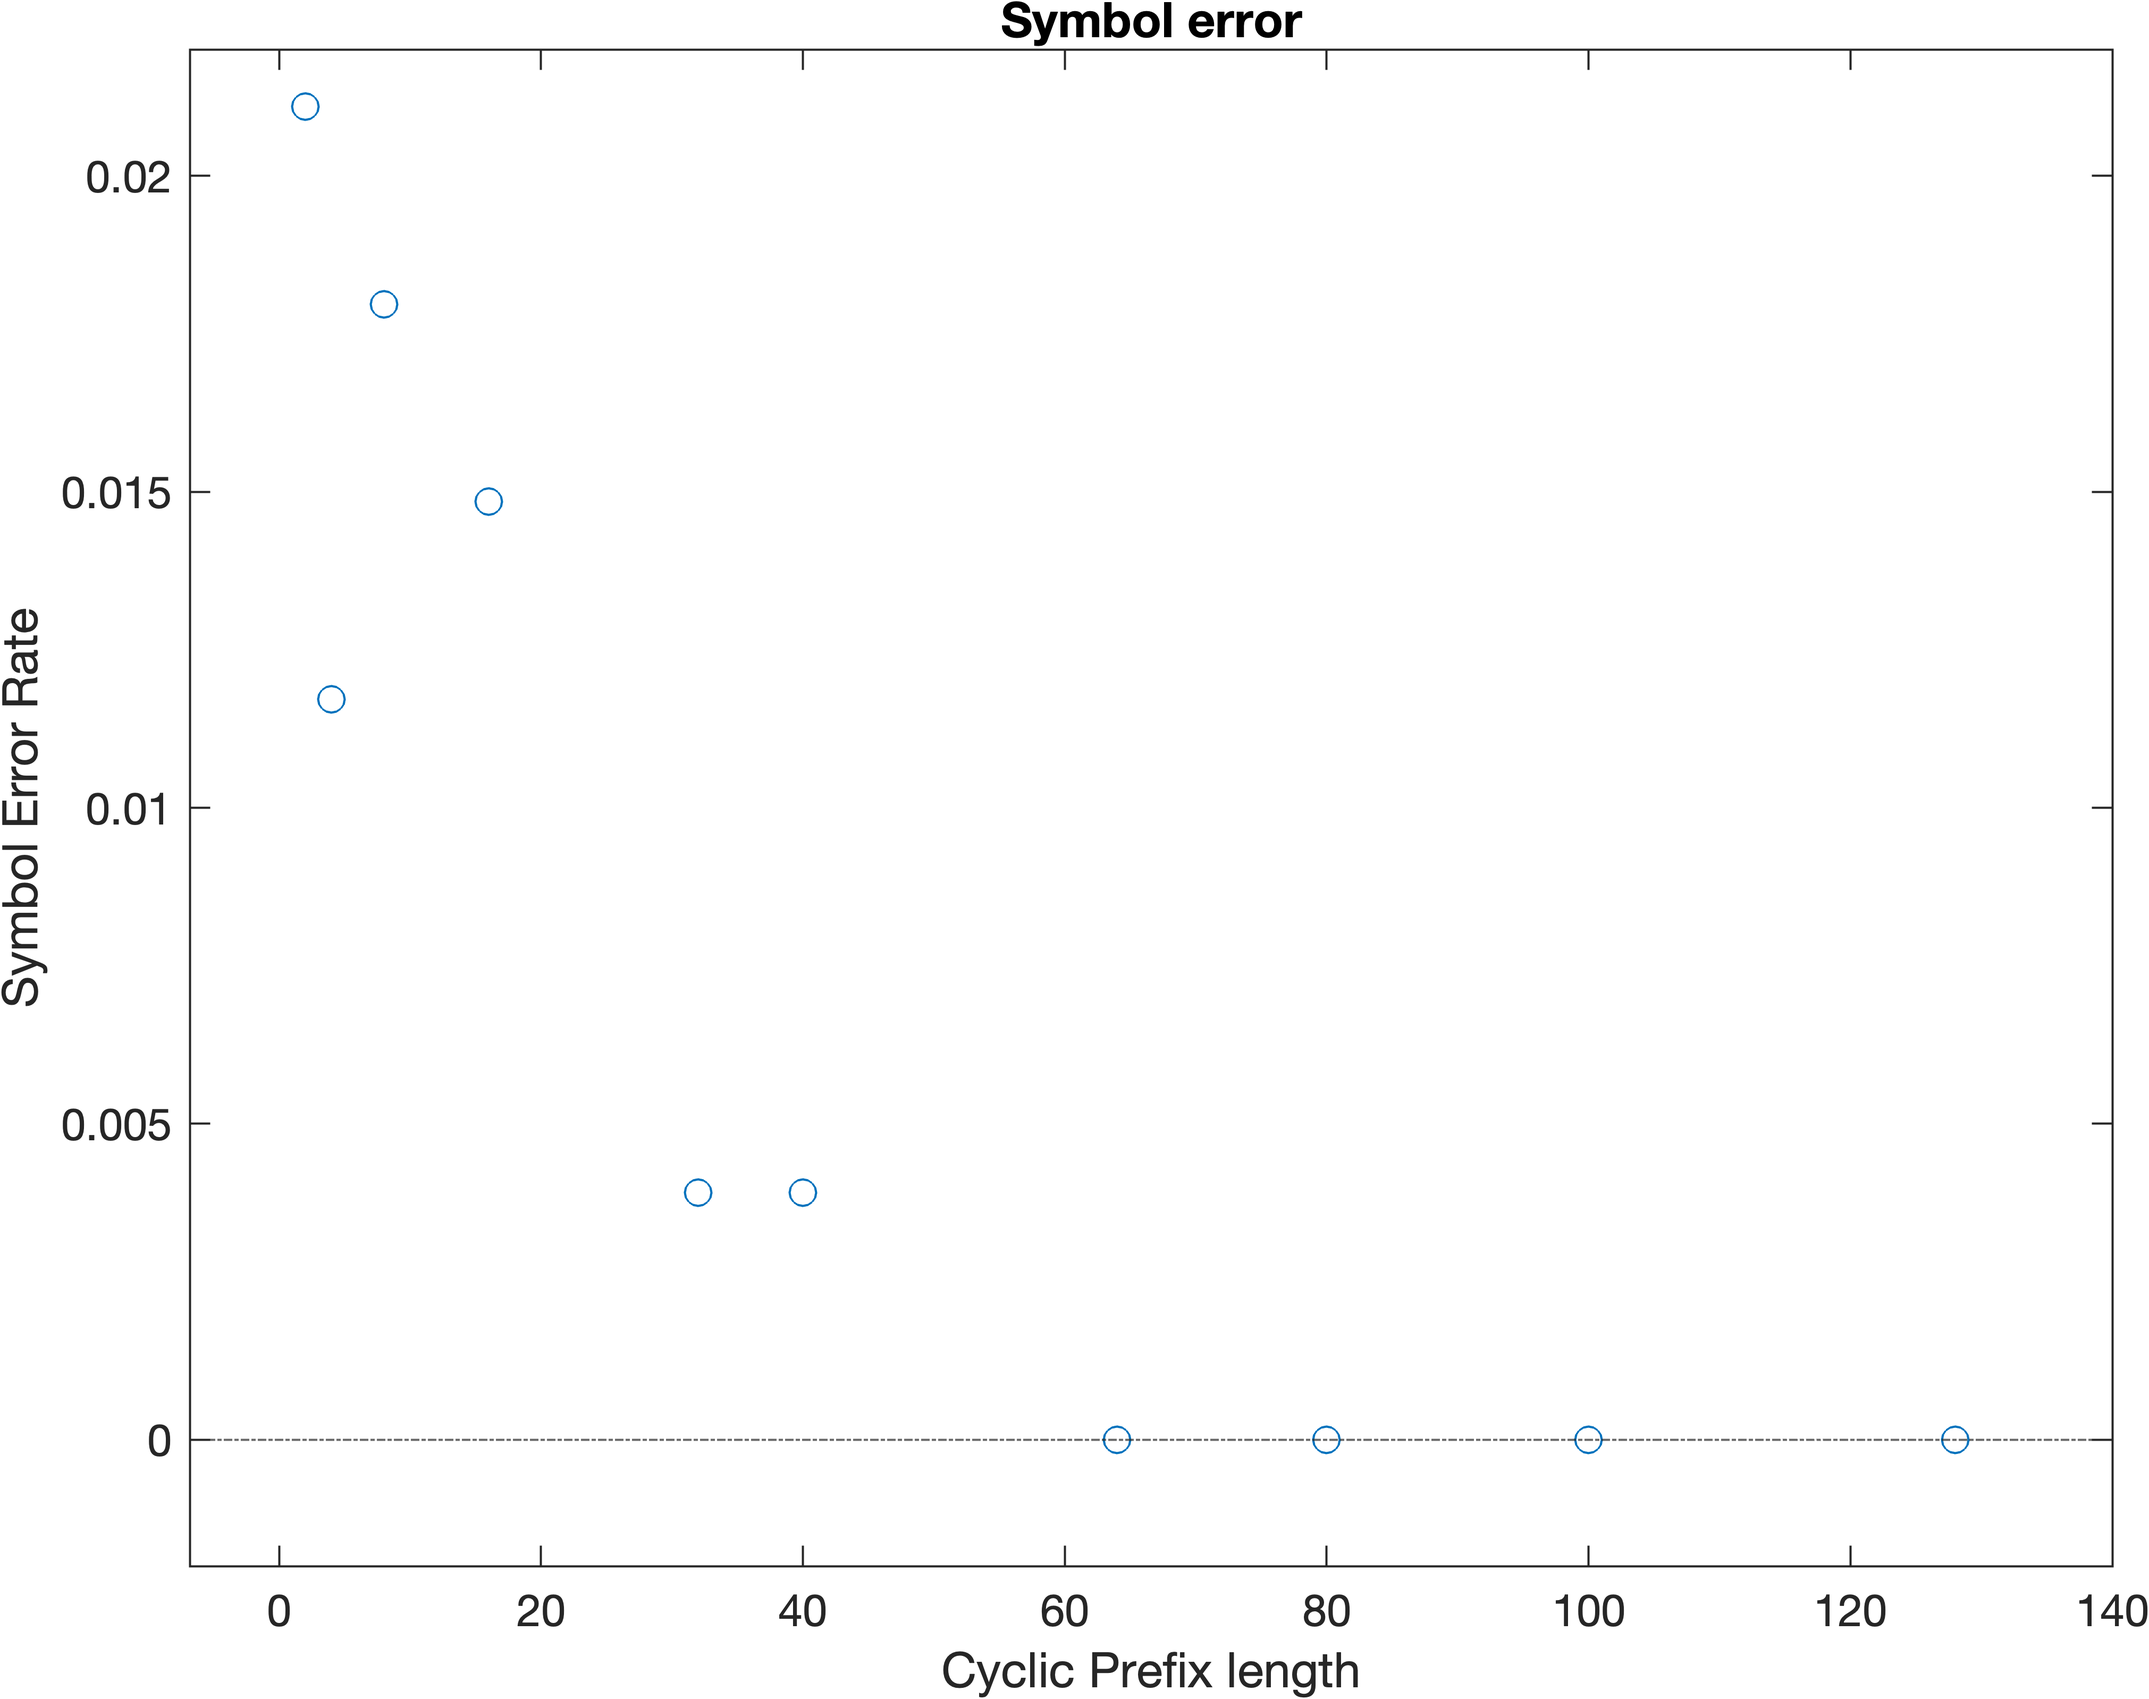
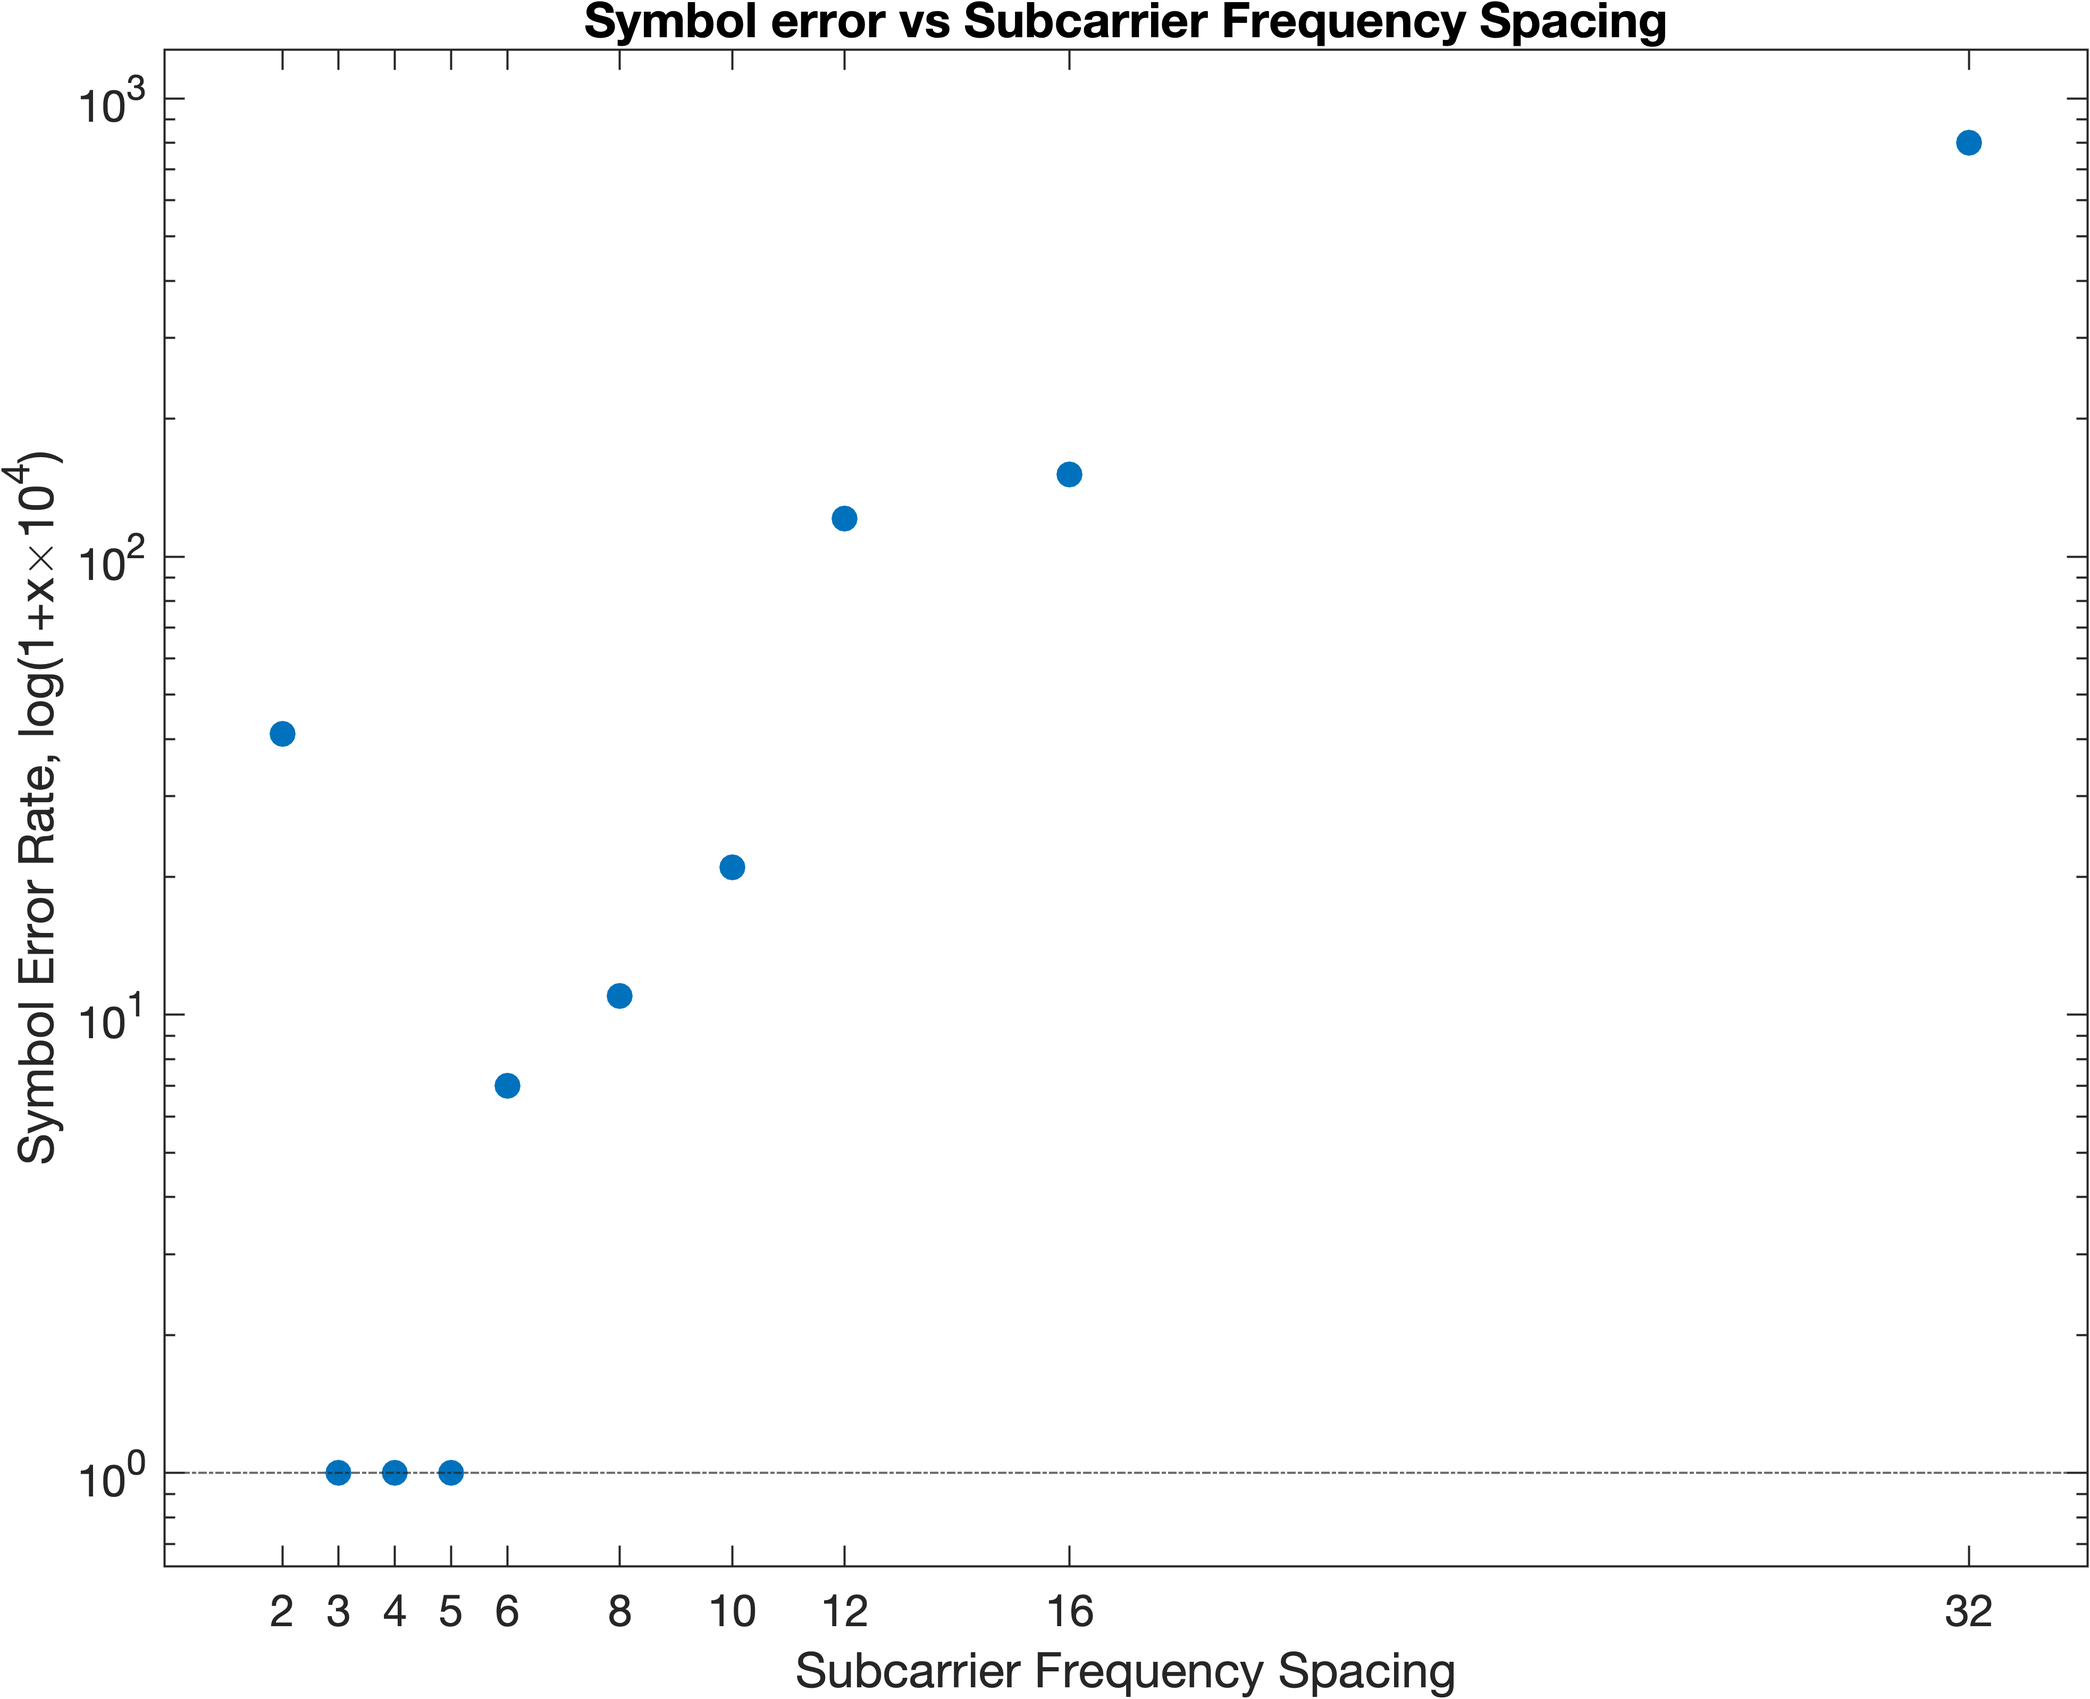
plot log done

diff --git a/project_matlab/main.m b/project_matlab/main.m
@@ -160,32 +160,32 @@ for x=1:length(frequency_spacing_list)
 
 
 end
-
-figure();
-plot(frequency_spacing_list, SER_list, '.', 'MarkerSize',20);
-title("Symbol error vs Subcarrier Frequency Spacing");
-xlabel("Subcarrier Frequency Spacing");
-ylabel("Symbol Error Rate");
-axis padded;
-yline(0, '-.');
-xticks(frequency_spacing_list)
-
-
-
-exportgraphics(gcf,'plots/SER_FreqSpacing_test.png','Resolution',600)
+% 
+% figure();
+% plot(frequency_spacing_list, SER_list, '.', 'MarkerSize',20);
+% title("Symbol error vs Subcarrier Frequency Spacing");
+% xlabel("Subcarrier Frequency Spacing");
+% ylabel("Symbol Error Rate");
+% axis padded;
+% yline(0, '-.');
+% xticks(frequency_spacing_list)
+% 
+% 
+% 
+% exportgraphics(gcf,'plots/SER_FreqSpacing_test.png','Resolution',600)
 
 %% for plot only, we did not do semilog
 
 figure();
 frequency_spacing_list = [2, 3, 4, 5, 6, 8, 10, 12, 16, 32];
-SER_list = [0.004, 0, 0, 0, 0.001, 0.001, 0.002, 0.012, .015, 0.08];
+SER_list = [0.004, 0, 0, 0, 0.0006, 0.001, 0.002, 0.012, .015, 0.08]*10000;
 
-semilogy(frequency_spacing_list, SER_list, '.', 'MarkerSize',20);
+semilogy(frequency_spacing_list, 1+SER_list, '.', 'MarkerSize',20);
 title("Symbol error vs Subcarrier Frequency Spacing");
 xlabel("Subcarrier Frequency Spacing");
-ylabel("Symbol Error Rate");
+ylabel("Symbol Error Rate, log(1+x\times10^4)");
 axis padded;
-yline(0, '-.');
+yline(1, '-.');
 xticks(frequency_spacing_list)
 
 
